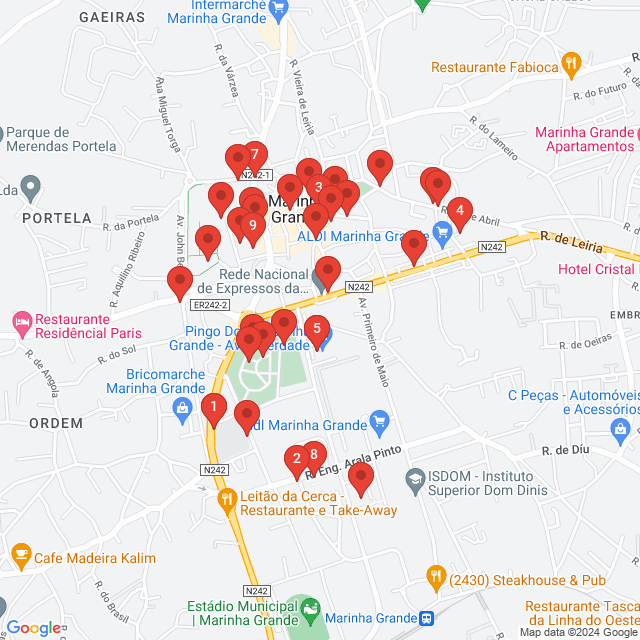
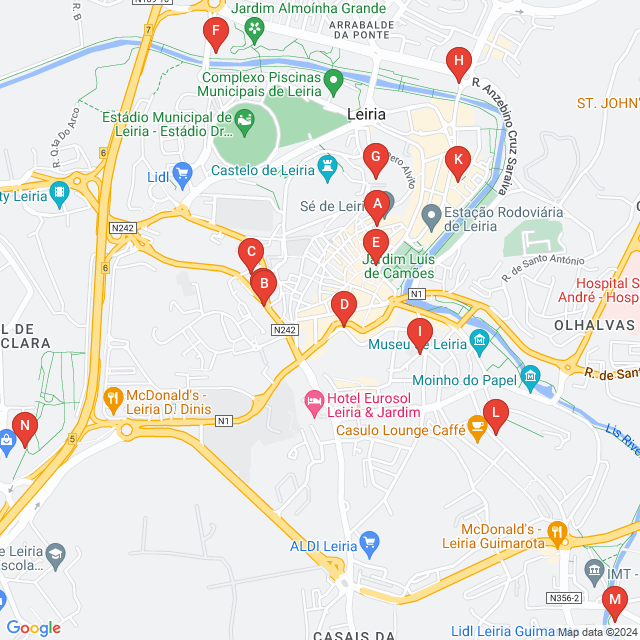
fix(QuestSearch): environment variables that handle cronjob requirement for absolute paths [P130]

diff --git a/modules/image_generator.py b/modules/image_generator.py
@@ -6,16 +6,21 @@ class ImageGenerator:
         self.poliswag = poliswag
         self.google_api_key = os.environ.get("GOOGLE_API_KEY")
 
+        self.QUESTS_TEMPLATE_HTML_DIR = os.environ.get("QUESTS_TEMPLATE_HTML_DIR")
+        self.QUESTS_TEMPLATE_HTML_FILE = os.environ.get("QUESTS_TEMPLATE_HTML_FILE")
+        self.QUESTS_IMAGE_FILE = os.environ.get("QUESTS_IMAGE_FILE")
+        self.QUESTS_IMAGE_MAP_FILE = os.environ.get("QUESTS_IMAGE_MAP_FILE")
+
     def generate_image_from_quest_data(self, quest_data, is_leiria):
-        env = Environment(loader=FileSystemLoader('templates'))
-        template = env.get_template('quests.html')
+        env = Environment(loader=FileSystemLoader(self.QUESTS_TEMPLATE_HTML_DIR))
+        template = env.get_template(self.QUESTS_TEMPLATE_HTML_FILE)
         html_content = template.render(quests=quest_data, is_leiria=is_leiria)
         options = {
             'format': 'jpg',
             'encoding': 'UTF-8',
             'width': '800',
         }
-        imgkit.from_string(html_content, 'quests.jpg', options=options)
+        imgkit.from_string(html_content, self.QUESTS_IMAGE_FILE, options=options)
 
     def generate_map_image_from_quest_data(self, quest_data):
             coordinates = []
@@ -29,12 +34,12 @@ class ImageGenerator:
 
             base_url = "https://maps.googleapis.com/maps/api/staticmap?"
             params = f"key={self.google_api_key}&size=1280x720"
-            markers = "&".join([f"markers=color:red%7Clabel:{idx+1}%7C{lat},{lon}" for idx, (lat, lon) in enumerate(coordinates)])
+            markers = "&".join([f"markers=color:red%7Clabel:{chr(65 + idx)}%7C{lat},{lon}" for idx, (lat, lon) in enumerate(coordinates)])
             url = f"{base_url}{params}&{markers}"
-
+            
             response = requests.get(url)
             if response.status_code == 200:
-                with open('quests_map.jpg', 'wb') as file:
+                with open(self.QUESTS_IMAGE_MAP_FILE, 'wb') as file:
                     file.write(response.content)
             else:
                 raise Exception(f"Error fetching the map image: {response.status_code} - {response.text}")

diff --git a/cogs/quests.py b/cogs/quests.py
@@ -6,6 +6,8 @@ class Quests(commands.Cog):
     def __init__(self, poliswag):
         self.poliswag = poliswag
         self.SCAN_QUESTS_ALL_URL = os.environ.get("SCAN_QUESTS_ALL_URL")
+        self.QUESTS_IMAGE_FILE = os.environ.get("QUESTS_IMAGE_FILE")
+        self.QUESTS_IMAGE_MAP_FILE = os.environ.get("QUESTS_IMAGE_MAP_FILE")
     
     async def cog_load(self):
         print(f"{self.__class__.__name__} loaded!")
@@ -40,9 +42,9 @@ class Quests(commands.Cog):
             return
         
         self.poliswag.image_generator.generate_image_from_quest_data(found_quests, is_leiria)
-        await ctx.send(f"{user.mention}, aqui estão os resultados para '{search}':", file=discord.File("quests.jpg"))
+        await ctx.send(f"{user.mention}, aqui estão os resultados para '{search}':", file=discord.File(self.QUESTS_IMAGE_FILE))
         self.poliswag.image_generator.generate_map_image_from_quest_data(found_quests)
-        await ctx.send(file=discord.File("quests_map.jpg"))
+        await ctx.send(file=discord.File(self.QUESTS_IMAGE_MAP_FILE))
 
 async def setup(poliswag):
     await poliswag.add_cog(Quests(poliswag))
